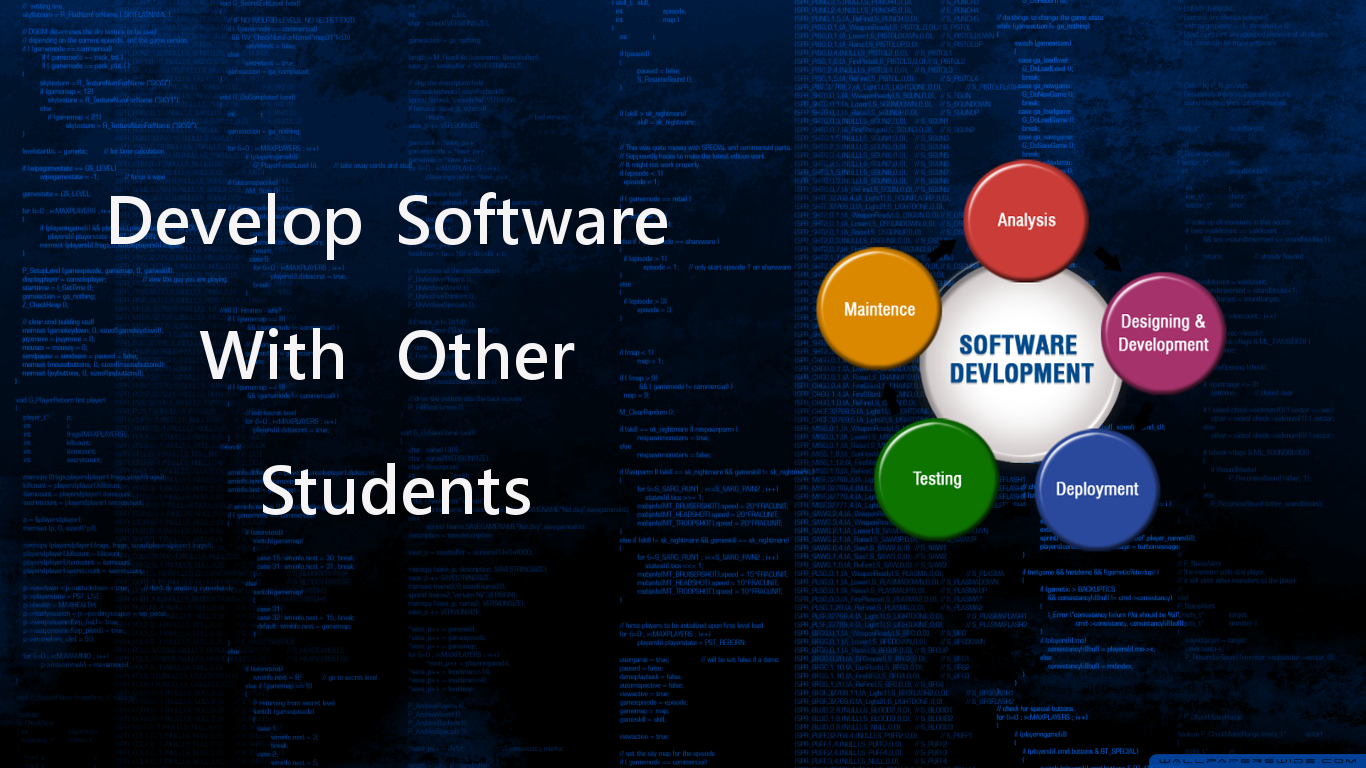
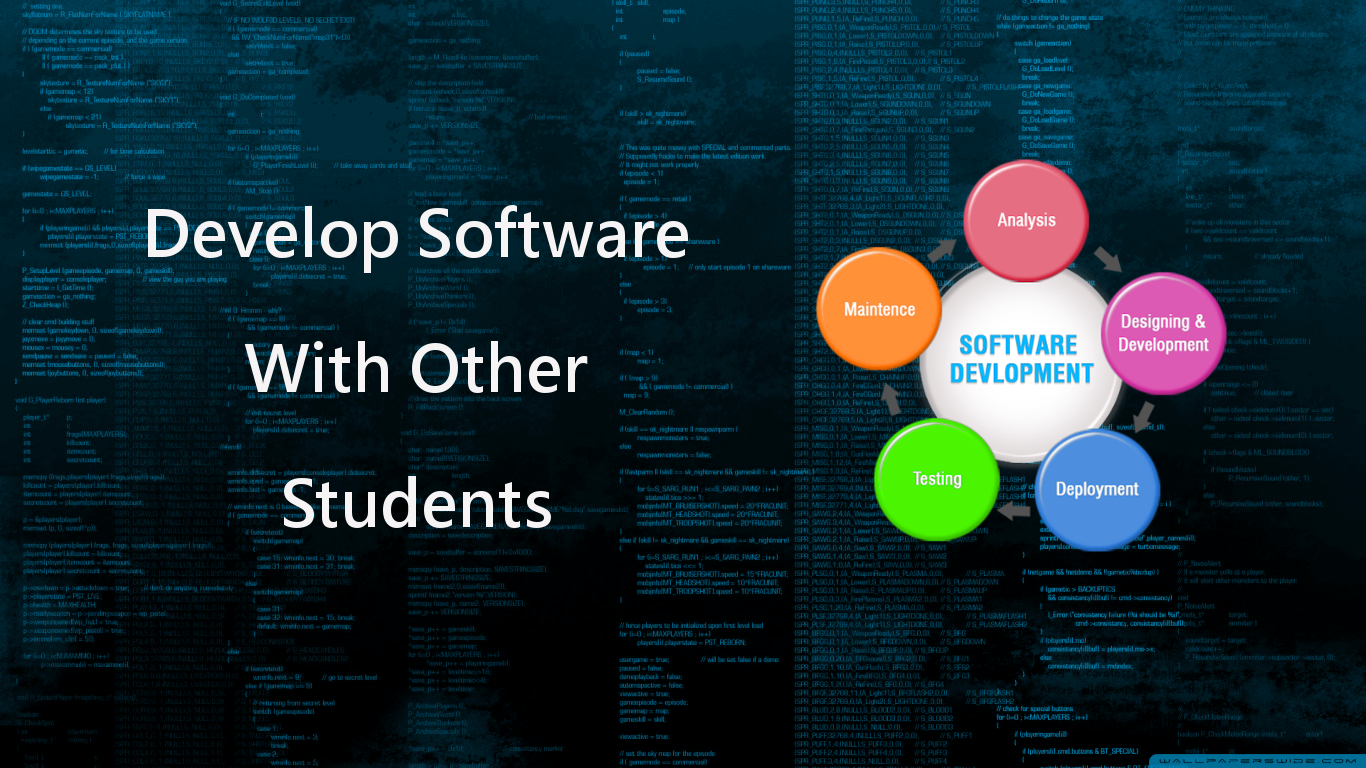
Images Update
Updated slider images to match color scheme;
Created and populated image gallery on about.php;
Modified accordion on about.php

diff --git a/display/css/jquery-ui.css b/display/css/jquery-ui.css
@@ -66,7 +66,7 @@
 /* Icons
 ----------------------------------*/
 
-/* states and images */
+/* states and ../media/images */
 .ui-icon {
 	display: block;
 	text-indent: -99999px;
@@ -131,8 +131,8 @@
 }
 .ui-widget-content {
 	border: 1px solid #dddddd;
-/*	background: #eeeeee url("images/ui-bg_highlight-soft_100_eeeeee_1x100.png") 50% top repeat-x;
-	color: #333333;*/
+	background: #eeeeee url("../media/images/ui-bg_highlight-soft_100_eeeeee_1x100.png") 50% top repeat-x;
+	color: #333333;
 	background-color: #26A9E0;
 }
 .ui-widget-content a {
@@ -140,8 +140,8 @@
 }
 .ui-widget-header {
 	border: 1px solid #e78f08;
-	/*background: #f6a828 url("images/ui-bg_gloss-wave_35_f6a828_500x100.png") 50% 50% repeat-x;
-*/	background-color: #26A9E0;
+	background: #f6a828 url("../media/images/ui-bg_gloss-wave_35_f6a828_500x100.png") 50% 50% repeat-x;
+	/*background-color: #26A9E0;*/
 	color: #ffffff;
 	font-weight: bold;
 }
@@ -155,8 +155,8 @@
 .ui-widget-content .ui-state-default,
 .ui-widget-header .ui-state-default {
 	border: 1px solid #cccccc;
-	/*background: #f6f6f6 url("images/ui-bg_glass_100_f6f6f6_1x400.png") 50% 50% repeat-x;
-*/	background-color: #8F8F8E;
+	background: #f6f6f6 url("../media/images/ui-bg_glass_100_f6f6f6_1x400.png") 50% 50% repeat-x;
+	background-color: #8F8F8E;
 	font-weight: bold;
 	color: #ffffff;
 }
@@ -173,8 +173,7 @@
 .ui-widget-content .ui-state-focus,
 .ui-widget-header .ui-state-focus {
 	border: 1px solid black;
-	/*background: #fdf5ce url("images/ui-bg_glass_100_fdf5ce_1x400.png") 50% 50% repeat-x;
-	*/
+	background: #fdf5ce url("../media/images/ui-bg_glass_100_fdf5ce_1x400.png") 50% 50% repeat-x;
 	background-color: #8F8F8E;
 	font-weight: bold;
 	color: #bdbdbd;
@@ -194,8 +193,7 @@
 .ui-widget-content .ui-state-active,
 .ui-widget-header .ui-state-active {
 	border: 1px solid #ffffff;
-	/*background: #ffffff url("images/ui-bg_glass_65_ffffff_1x400.png") 50% 50% repeat-x;
-	*/
+	background: #ffffff url("../media/images/ui-bg_glass_65_ffffff_1x400.png") 50% 50% repeat-x;
 	background-color: #8F8F8E;	
 	font-weight: bold;
 	color: #ffffff;
@@ -213,7 +211,7 @@
 .ui-widget-content .ui-state-highlight,
 .ui-widget-header .ui-state-highlight {
 	border: 1px solid #fed22f;
-	background: #ffe45c url("images/ui-bg_highlight-soft_75_ffe45c_1x100.png") 50% top repeat-x;
+	background: #ffe45c url("../media/images/ui-bg_highlight-soft_75_ffe45c_1x100.png") 50% top repeat-x;
 	color: #363636;
 }
 .ui-state-highlight a,
@@ -225,7 +223,7 @@
 .ui-widget-content .ui-state-error,
 .ui-widget-header .ui-state-error {
 	border: 1px solid #cd0a0a;
-	background: #b81900 url("images/ui-bg_diagonals-thick_18_b81900_40x40.png") 50% 50% repeat;
+	background: #b81900 url("../media/images/ui-bg_diagonals-thick_18_b81900_40x40.png") 50% 50% repeat;
 	color: #ffffff;
 }
 .ui-state-error a,
@@ -264,34 +262,34 @@
 /* Icons
 ----------------------------------*/
 
-/* states and images */
+/* states and ../media/images */
 .ui-icon {
 	width: 16px;
 	height: 16px;
 }
 .ui-icon,
 .ui-widget-content .ui-icon {
-	background-image: url("images/ui-icons_222222_256x240.png");
+	background-image: url("../media/../media/images/ui-icons_222222_256x240.png");
 }
 .ui-widget-header .ui-icon {
-	background-image: url("images/ui-icons_ffffff_256x240.png");
+	background-image: url("../media/images/ui-icons_ffffff_256x240.png");
 }
 .ui-state-default .ui-icon {
-	background-image: url("images/ui-icons_ef8c08_256x240.png");
+	background-image: url("../media/images/ui-icons_ffffff_256x240.png");
 }
 .ui-state-hover .ui-icon,
 .ui-state-focus .ui-icon {
-	background-image: url("images/ui-icons_ef8c08_256x240.png");
+	background-image: url("../media/images/ui-icons_ffffff_256x240.png");
 }
 .ui-state-active .ui-icon {
-	background-image: url("images/ui-icons_ef8c08_256x240.png");
+	background-image: url("../media/images/ui-icons_ffffff_256x240.png");
 }
 .ui-state-highlight .ui-icon {
-	background-image: url("images/ui-icons_228ef1_256x240.png");
+	background-image: url("../media/images/ui-icons_ffffff_256x240.png");
 }
 .ui-state-error .ui-icon,
 .ui-state-error-text .ui-icon {
-	background-image: url("images/ui-icons_ffd27a_256x240.png");
+	background-image: url("../media/images/ui-icons_ffffff_256x240.png");
 }
 
 /* positioning */
@@ -504,14 +502,14 @@
 
 /* Overlays */
 .ui-widget-overlay {
-	background: #666666 url("images/ui-bg_diagonals-thick_20_666666_40x40.png") 50% 50% repeat;
+	background: #666666 url("../media/images/ui-bg_diagonals-thick_20_666666_40x40.png") 50% 50% repeat;
 	opacity: .5;
 	filter: Alpha(Opacity=50); /* support: IE8 */
 }
 .ui-widget-shadow {
 	margin: -5px 0 0 -5px;
 	padding: 5px;
-	background: #000000 url("images/ui-bg_flat_10_000000_40x100.png") 50% 50% repeat-x;
+	background: #000000 url("../media/images/ui-bg_flat_10_000000_40x100.png") 50% 50% repeat-x;
 	opacity: .2;
 	filter: Alpha(Opacity=20); /* support: IE8 */
 	border-radius: 5px;

diff --git a/display/css/main.css b/display/css/main.css
@@ -157,10 +157,21 @@ p {
 	background-color: 	rgba(35,35,35 .3);
 	float: 				left;
 }
-#languages-funny-div {
-	width: 	100%;
-	height: 100%;
-	padding-bottom: 10%;
+#image-div {
+	/*width: 	33.3%;
+	height: auto%;*/
+	vertical-align: top;
+	margin-bottom: 20%;
+}
+#image-div2{
+	width: 33.3%;
+	height: auto%;
+	float: left;
+}
+#aboutImage:hover{
+    -ms-transform: scale(2, 2); /* IE 9 */
+    -webkit-transform: scale(2, 2); /* Chrome, Safari, Opera */
+    transform: scale(2, 2);
 }
 #aboutImage {
 	width: 	75%;

diff --git a/display/js/jquery-ui.js b/display/js/jquery-ui.js
@@ -872,7 +872,7 @@ var accordion = $.widget( "ui.accordion", {
 	options: {
 		active: 0,
 		animate: {},
-		collapsible: false,
+		collapsible: true,
 		event: "click",
 		header: "> li > :first-child,> :not(li):even",
 		heightStyle: "auto",

diff --git a/display/body/about.php b/display/body/about.php
@@ -1,6 +1,6 @@
  <script>
 $(function() {
-$( "#accordion" ).accordion();
+$( "#accordion" ).accordion({ icons: { "header": "ui-icon-plus", "activeHeader": "ui-icon-minus" }});
 });
 </script>
 
@@ -9,18 +9,6 @@ $( "#accordion" ).accordion();
 	</div>
 	<div class="pure-u-18-24" id="centerdiv">
 		<center>
-			<!--
-			<p style="margin-top: 150px;">The Software Engineering Club at Moreno Valley College is a group of computer science students who
-			are dedicated to making an impact both in their careers and in their community.</p>
-			<p>We meet every week to organize projects, learn new techniques, and to plan events. We always have 
-			something new going on, whether it be creating applications to improve the lives of our fellow students,
-			presenting lectures on information security to help curb the plaque of identity theft, or volunteering
-			at regional programming competitions.</p>
-
-			<p>A variety of software development topics ranging from basic to advanced
-			will be presented by qualified speakers. These new 
-			skills will be put to the test in fun-filled group exercises and competitions.</p>
-			<p>Also, we have cake.</p>-->
 			<hr style="margin-top: 100px;">
 			<h1>About Us</h1>
 			<div id="accordion">
@@ -93,16 +81,47 @@ $( "#accordion" ).accordion();
 					</p>
 				</div>
 			</div>
-			<br />
-			<br />
-			<br />
-			<br />			
-			<br />
-			<br />
-			<div id="languages-funny-div">
-			<img id="aboutImage" src="display/media/images/languages_funny.jpg" alt="languages_funny">
+			<div style="margin-bottom: 10%; width: 100%;">
 			</div>
-		</center>
+			<h1>Image Gallery</h1>
+			<h6>Hover over an image to expand.</h6>
+			</center>
+			<div id="image-div2">
+				<div id="image-div">
+					<img id="aboutImage" src="display/media/images/AboutImage1.jpg" alt="languages_funny">
+				</div>
+				<div id="image-div">
+					<img id="aboutImage" src="display/media/images/AboutImage2.jpg" alt="languages_funny">
+				</div>
+				<div id="image-div">
+					<img id="aboutImage" src="display/media/images/AboutImage6.png" alt="languages_funny">
+				</div>
+				<div id="image-div">
+					<img id="aboutImage" src="display/media/images/AboutImage10.jpg" alt="languages_funny">
+				</div>
+			</div>
+			<div id="image-div2">
+				<div id="image-div">
+					<img id="aboutImage" src="display/media/images/AboutImage3.jpg" alt="languages_funny">
+				</div>
+				<div id="image-div">
+					<img id="aboutImage" src="display/media/images/AboutImage5.png" alt="languages_funny">
+				</div>
+				<div id="image-div">
+					<img id="aboutImage" src="display/media/images/AboutImage8.jpeg" alt="languages_funny">
+				</div>
+			</div>
+			<div id="image-div2">
+				<div id="image-div">
+					<img id="aboutImage" src="display/media/images/AboutImage4.jpg" alt="languages_funny">
+				</div>
+				<div id="image-div">
+					<img id="aboutImage" src="display/media/images/AboutImage7.png" alt="languages_funny">
+				</div>
+				<div id="image-div">
+					<img id="aboutImage" src="display/media/images/AboutImage9.jpg" alt="languages_funny">
+				</div>
+			</div>
 	</div>
 	<div class="pure-u-3-24">
 	</div>
